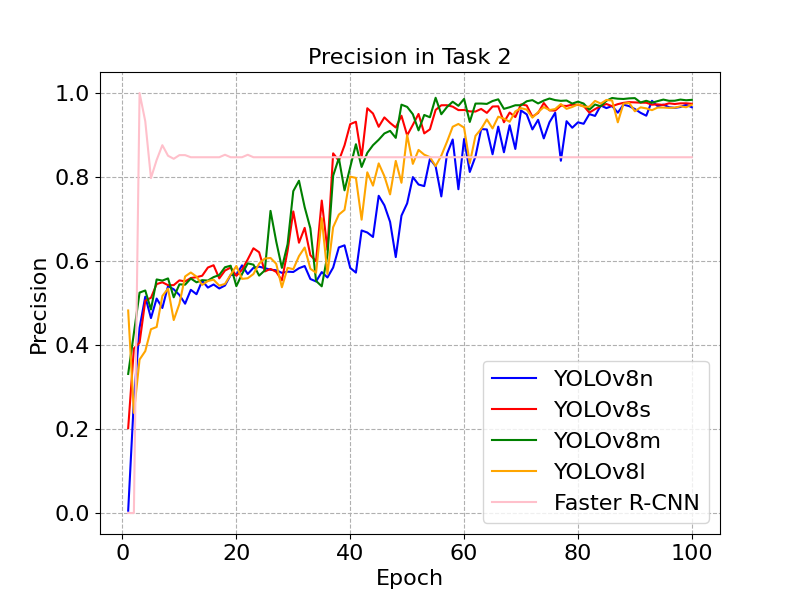
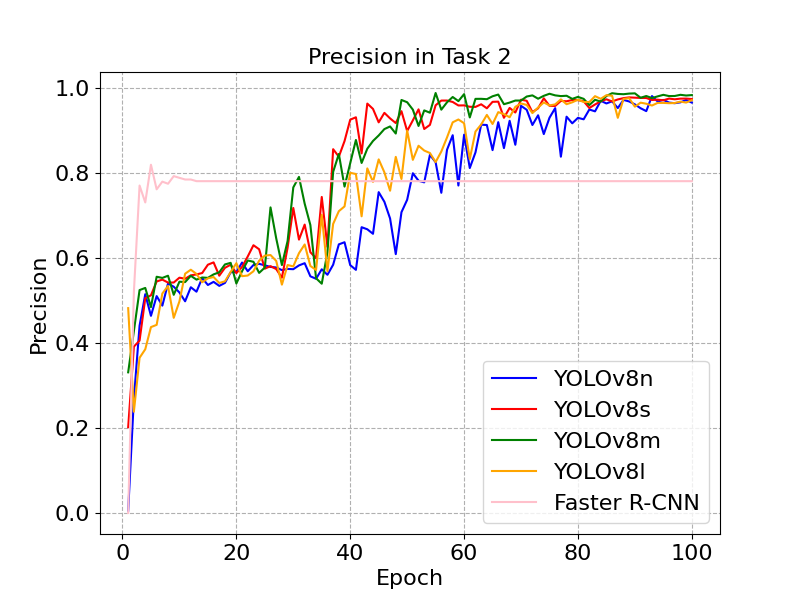
Training and plotting

diff --git a/7_plot_total_losses.py b/7_plot_total_losses.py
@@ -15,7 +15,7 @@ for nn in range(1,3):
     data_s = pd.read_csv(f'Datasets/Dataset_NN{nn}/Runs_NN{nn}/yolov8s_NN{nn}/results.csv')
     data_m = pd.read_csv(f'Datasets/Dataset_NN{nn}/Runs_NN{nn}/yolov8m_NN{nn}/results.csv')
     data_l = pd.read_csv(f'Datasets/Dataset_NN{nn}/Runs_NN{nn}/yolov8l_NN{nn}/results.csv')
-    data_rcnn = pd.read_csv(f'Datasets/Dataset_NN{nn}/Runs_NN{nn}/faster_rcnn_NN{nn}/results.csv')
+    data_rcnn = pd.read_csv(f'Datasets/Dataset_NN{nn}/Runs_NN{nn}/faster_rcnn_NN{nn}_new/results.csv')
 
     # Compute total train and validation losses
     data_n['total_train_loss'] = data_n['train/box_loss'] + data_n['train/cls_loss'] + data_n['train/dfl_loss']
